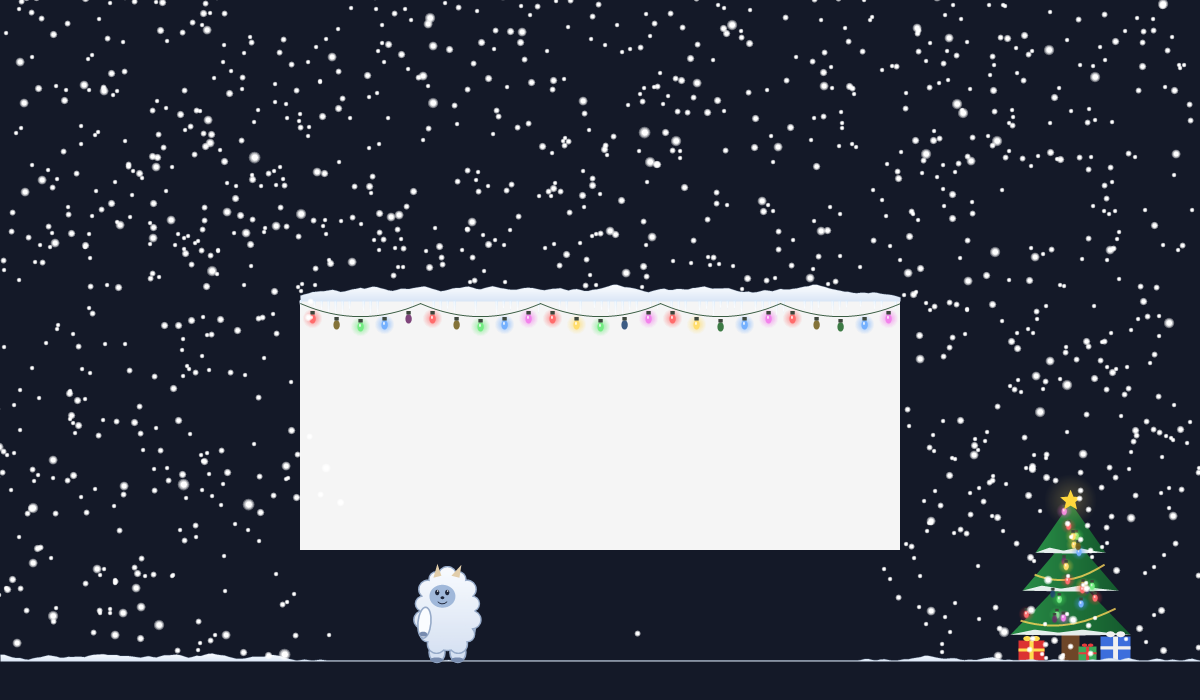
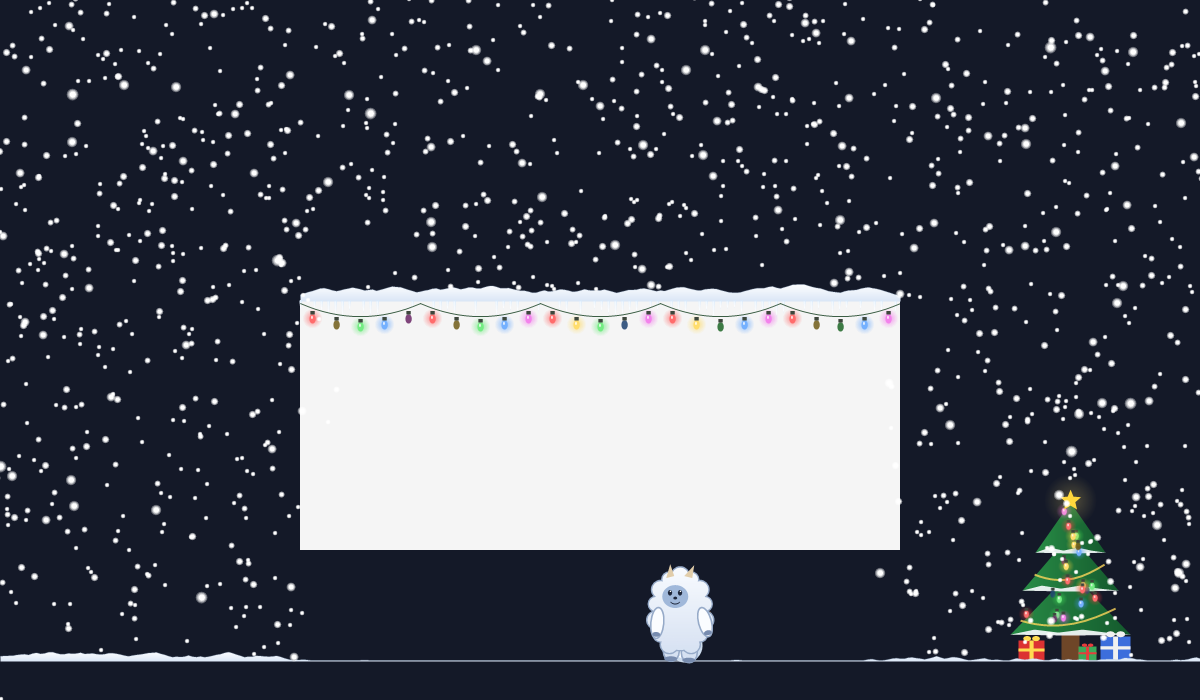
Yeti: both arms visible, reworked animations
- The left arm was drawn behind the body and fully hidden by the fur;
  both arms now sit on the body sides on top of it.
- Each animation drives both arms: walking swings them and lifts the
  feet; the throw raises the ball outward over the shoulder (no longer
  across the face), throws forward and follows through while the other
  arm balances; building crouches and pats with both hands; a hit throws
  both arms up; angry stance holds fists out; waving keeps the free arm
  on the hip.
- --yeti renders a frame-by-frame strip of every Yeti animation.

diff --git a/src/WorldDraw.cs b/src/WorldDraw.cs
@@ -662,37 +662,53 @@ namespace DeskSeasons
             g.Restore(st);
         }
 
-        // Йети: смотрит вправо, ступни в (0,0), рост ~100. Порядок: дальняя рука → ноги → туловище с мехом →
-        // лицо → ближняя рука поверх. У всего лёгкий голубой контур, чтобы Йети был виден и на белых окнах.
+        // Йети: смотрит вправо, ступни в (0,0), рост ~100. Порядок: ноги → туловище с мехом →
+        // лицо → обе руки поверх. У всего лёгкий голубой контур, чтобы Йети был виден и на белых окнах.
         void DrawYeti(Graphics g, Walker w)
         {
-            float a = w.State == 0 && !w.Wave ? (float)Math.Sin(w.Anim * 4) : 0;
-            float by = -Math.Abs(a) * 2.5f;                       // покачивание при ходьбе
+            bool walking = w.State == 0 && !w.Wave && w.Anger <= 0;
+            float a = walking ? (float)Math.Sin(w.Anim * 4) : 0;
+            float by = -Math.Abs(a) * 3f;                          // подпрыгивает на каждом шаге
+            if (w.State == 3) by += 5 + (float)Math.Abs(Math.Sin(w.T * 10)) * 2;   // присел и лепит
             Color furTop = Color.FromArgb(255, 250, 252, 255), furBot = Color.FromArgb(255, 214, 225, 242);
             Color line = Color.FromArgb(255, 150, 170, 200);
 
-            // угол ближней руки (0 — висит вниз, минус — вперёд/вверх, плюс — назад)
-            float arm;
-            if (w.State == 2) arm = w.T < 0.55f ? 175 - w.T * 30 : -75;           // замах назад-вверх → бросок вперёд
-            else if (w.State == 3) arm = -45 + (float)Math.Sin(w.T * 9) * 25;      // лепит перед собой
-            else if (w.State == 4) arm = 60;                                       // отшатнулся
-            else if (w.Wave) arm = -155 + (float)Math.Sin(T * 11) * 22;            // машет
-            else arm = a * 22;
-            float backArm = w.State == 4 ? -50 : -a * 22;
+            // Углы рук от направления «вниз». Правая рука: минус — наружу/вверх. Левая (зеркально): плюс — наружу/вверх.
+            float rArm, lArm;
+            if (w.State == 2)
+            {
+                // замах: рука идёт наружу и вверх над плечом (не через лицо), левая отводится для равновесия
+                if (w.T < 0.55f) { float k = w.T / 0.55f; k = k * (2 - k); rArm = -8 - k * 162; lArm = 8 + k * 45; }
+                else if (w.T < 0.75f) { float k = (w.T - 0.55f) / 0.2f; rArm = -170 + k * 90; lArm = 53 - k * 50; } // резкий бросок вперёд
+                else { float k = Math.Min(1, (w.T - 0.75f) / 0.45f); rArm = -80 + k * 70; lArm = 3 + k * 7; }       // рука опускается
+            }
+            else if (w.State == 3)
+            {
+                float s = (float)Math.Sin(w.T * 10);
+                rArm = 28 + s * 14; lArm = -28 + s * 14;                                  // обе руки перед собой — лепит
+            }
+            else if (w.State == 4)
+            {
+                float s = (float)Math.Sin(w.T * 30) * 15;
+                rArm = -135 + s; lArm = 135 - s;                                         // взмахнул обеими руками
+            }
+            else if (w.Wave) { rArm = -155 + (float)Math.Sin(T * 11) * 22; lArm = 12; }  // машет, вторая на боку
+            else if (w.Anger > 0) { rArm = -22 + (float)Math.Sin(T * 6) * 4; lArm = 22 - (float)Math.Sin(T * 6) * 4; } // кулаки в стороны
+            else { rArm = -10 + a * 24; lArm = 10 + a * 24; }                            // ходьба: руки качаются
 
             using (var pen = new Pen(line, 1.6f))
             using (var furB = new SolidBrush(furTop))
             using (var shadeB = new SolidBrush(furBot))
             using (var padB = new SolidBrush(Color.FromArgb(255, 120, 140, 175)))
             {
-                // дальняя рука
-                Limb(g, -21, -50 + by, backArm, 12, 30, shadeB, pen, padB);
-                // ноги
+                // ноги: на шаге одна поднимается, другая стоит
                 for (int s = -1; s <= 1; s += 2)
                 {
-                    float lx = s * 9 + (s < 0 ? a : -a) * 6;
-                    g.FillEllipse(shadeB, lx - 8, -20, 16, 20); g.DrawEllipse(pen, lx - 8, -20, 16, 20);
-                    g.FillEllipse(padB, lx - 6, -5, 13, 5);
+                    float lift = walking ? Math.Max(0, s * a) * 7 : 0;
+                    float lx = s * 9;
+                    if (w.State == 3) lx = s * 12;                                       // присел — ноги шире
+                    g.FillEllipse(shadeB, lx - 8, -20 - lift, 16, 20); g.DrawEllipse(pen, lx - 8, -20 - lift, 16, 20);
+                    g.FillEllipse(padB, lx - 6, -5 - lift, 13, 5);
                 }
                 // туловище: контур из «пушистых» кругов, затем заливка с градиентом
                 var tufts = new List<RectangleF>();
@@ -740,11 +756,12 @@ namespace DeskSeasons
                     else
                         using (var p2 = new Pen(dark.Color, 1.5f)) g.DrawArc(p2, fx - 5, fy + 1, 10, 7, 20, 140);
                 }
-                // ближняя рука поверх туловища
-                Limb(g, 22, -50 + by, arm, 13, 31, furB, pen, padB);
+                // обе руки поверх туловища
+                Limb(g, -22, -50 + by, lArm, 13, 30, furB, pen, padB);
+                Limb(g, 22, -50 + by, rArm, 13, 31, furB, pen, padB);
                 if (w.State == 2 && w.T < 0.55f)
                 {
-                    double ar = arm * Math.PI / 180;
+                    double ar = rArm * Math.PI / 180;
                     float tx = 22 - (float)Math.Sin(ar) * 31, ty = -50 + by + (float)Math.Cos(ar) * 31;
                     Art.Ball(g, tx, ty, 6);
                 }

diff --git a/src/WorldSheet.cs b/src/WorldSheet.cs
@@ -76,6 +76,29 @@ namespace DeskSeasons
             }
         }
 
+        // Отладка: раскадровка всех анимаций Йети (--yeti): по строке на анимацию, 6 кадров во времени
+        public void DrawYetiStrip(Graphics g, float zoom)
+        {
+            var fake = new Mon { B = new Rectangle(0, 0, 4000, 4000), W = new Rectangle(0, 0, 4000, 4000), Primary = true };
+            fake.Gh = new float[1100];
+            Sea = Season.Winter; SS = S.Seasons[0];
+            for (int row = 0; row < 5; row++)
+                for (int f = 0; f < 6; f++)
+                {
+                    var w = new Walker { M = fake, Dir = 1 };
+                    switch (row)
+                    {
+                        case 0: w.State = 0; w.Anim = f * 0.13f; break;                    // ходьба
+                        case 1: w.State = 2; w.T = f * 0.2f; break;                         // бросок
+                        case 2: w.State = 3; w.T = f * 0.25f; break;                        // лепит
+                        case 3: w.State = 4; w.T = f * 0.13f; w.Anger = 2; break;          // попали
+                        case 4: w.State = 0; w.Wave = true; T = f * 0.1f; break;           // машет
+                    }
+                    if (row == 3 && f == 5) { w.State = 0; w.Anger = 2; }                  // сердится после
+                    Place(g, zoom, 60 + f * 120, 125 + row * 130, delegate { DrawYeti(g, w); });
+                }
+        }
+
         delegate void Act();
 
         static void Place(Graphics g, float zoom, float x, float y, Act draw)

diff --git a/src/Program.cs b/src/Program.cs
@@ -17,16 +17,16 @@ namespace DeskSeasons
         static void Main(string[] args)
         {
             if (args.Length == 2 && args[0] == "--export-icon") { Art.ExportIco(args[1]); return; }
-            if (args.Length == 2 && args[0] == "--sheet")
+            if (args.Length == 2 && (args[0] == "--sheet" || args[0] == "--yeti"))
             {
                 Art.Init(1f);
                 var w = new World(new Settings());
-                using (var bmp = new System.Drawing.Bitmap(1700, 1400))
+                using (var bmp = new System.Drawing.Bitmap(args[0] == "--yeti" ? 1460 : 1700, args[0] == "--yeti" ? 1320 : 1400))
                 using (var g = System.Drawing.Graphics.FromImage(bmp))
                 {
                     g.Clear(System.Drawing.Color.FromArgb(255, 30, 36, 52));
                     g.SmoothingMode = System.Drawing.Drawing2D.SmoothingMode.AntiAlias;
-                    w.DrawSheet(g, 2f);
+                    if (args[0] == "--yeti") w.DrawYetiStrip(g, 2f); else w.DrawSheet(g, 2f);
                     bmp.Save(args[1]);
                 }
                 return;
